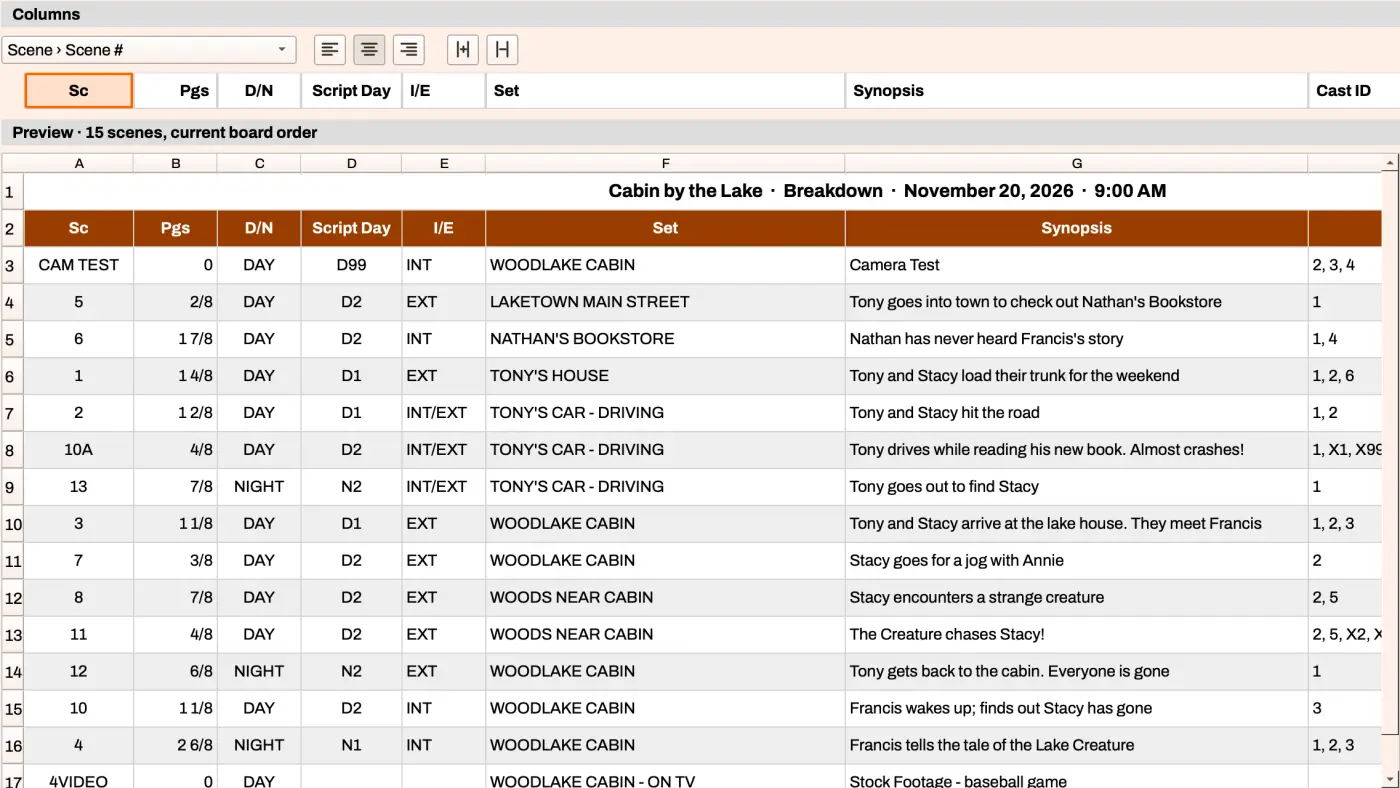
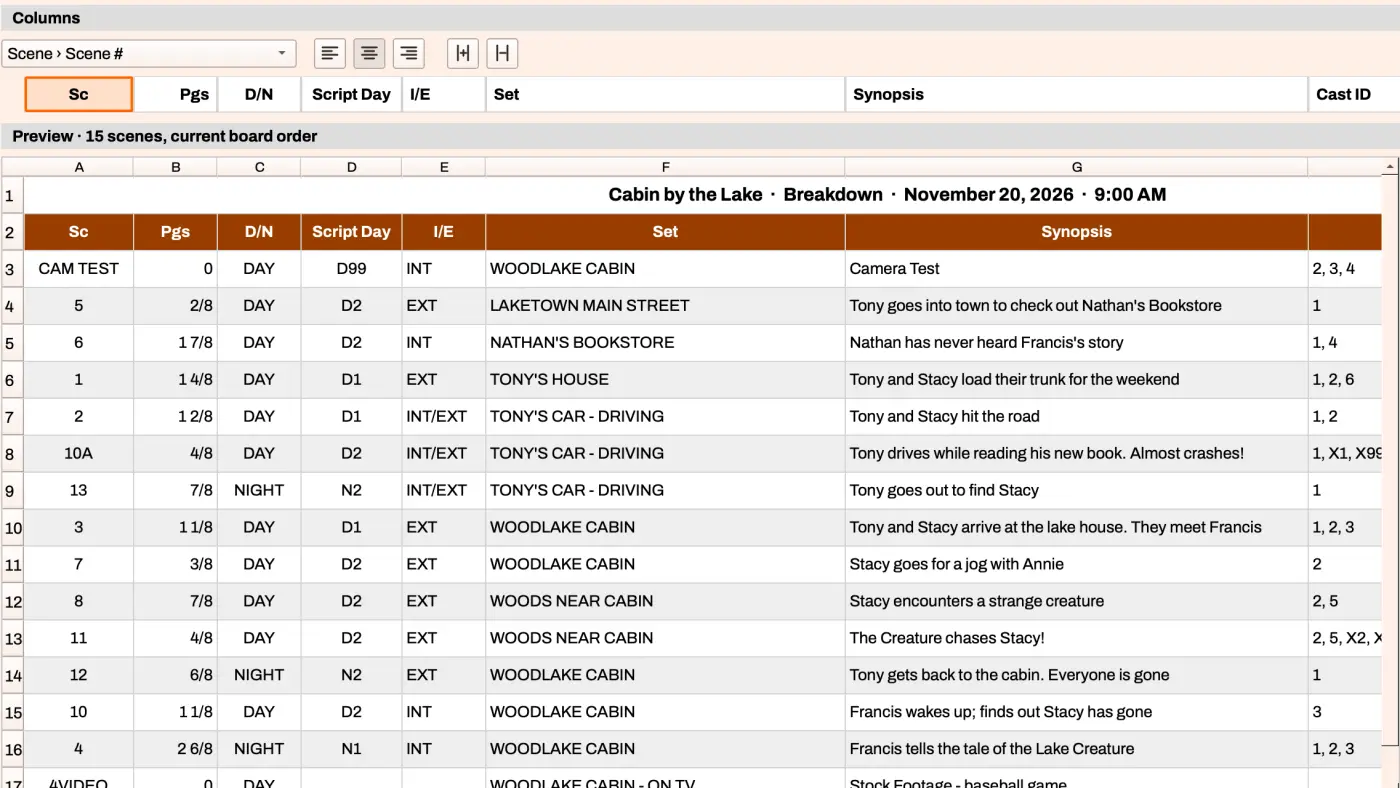
Abba Schedule 1: mac build 7, windows build 5

diff --git a/index.html b/index.html
@@ -291,11 +291,11 @@
     <p class="lede">Film and TV scheduling for Mac and Windows: breakdowns, stripboards, a shooting calendar, Day Out of Days, and reports you design yourself.</p>
     <div class="downloads">
       <div class="download mac">
-        <a class="btn" href="https://github.com/christianabbat-glitch/abbaschedule/releases/download/v0.9-beta1-build6/Abba-Schedule-1-0.9-beta-1-build-6.dmg" id="download-mac">
+        <a class="btn" href="https://github.com/christianabbat-glitch/abbaschedule/releases/download/v0.9-beta1-build7/Abba-Schedule-1-0.9-beta-1-build-7.dmg" id="download-mac">
           <svg viewBox="0 0 20 20" fill="none" stroke="currentColor" stroke-width="2" stroke-linecap="round" stroke-linejoin="round" aria-hidden="true"><path d="M10 3v10M5.5 8.5 10 13l4.5-4.5M4 17h12"/></svg>
           Download for Mac
         </a>
-        <p class="meta">Version 0.9 beta 1 (build 6) · 41 MB disk image</p>
+        <p class="meta">Version 0.9 beta 1 (build 7) · 41 MB disk image</p>
         <p class="req"><strong>A Mac with Apple silicon</strong> (M1 or later) and macOS 13 Ventura or newer. Intel Macs aren't supported yet.</p>
       </div>
       <div class="download windows">
@@ -402,7 +402,7 @@
   <section id="feedback" class="feedback" aria-labelledby="feedback-title">
     <h2 id="feedback-title">Found a problem?</h2>
     <p>Bugs, confusing bits, anything that slows you down. Say what you were doing, what happened and what you expected. A screenshot or your .as1 file helps a lot.</p>
-    <a class="btn secondary" href="mailto:christianabbat@gmail.com?subject=Abba%20Schedule%201%20(0.9%20beta%201%20%28build%206%29)%20feedback&amp;body=What%20were%20you%20doing%3F%0A%0AWhat%20happened%2C%20and%20what%20did%20you%20expect%3F%0A%0AYour%20computer%20(Mac%20or%20PC)%20and%20its%20system%20version%3A%0A%0A">Email feedback</a>
+    <a class="btn secondary" href="mailto:christianabbat@gmail.com?subject=Abba%20Schedule%201%20(0.9%20beta%201%20%28build%207%29)%20feedback&amp;body=What%20were%20you%20doing%3F%0A%0AWhat%20happened%2C%20and%20what%20did%20you%20expect%3F%0A%0AYour%20computer%20(Mac%20or%20PC)%20and%20its%20system%20version%3A%0A%0A">Email feedback</a>
   </section>
 </main>
 <script>
